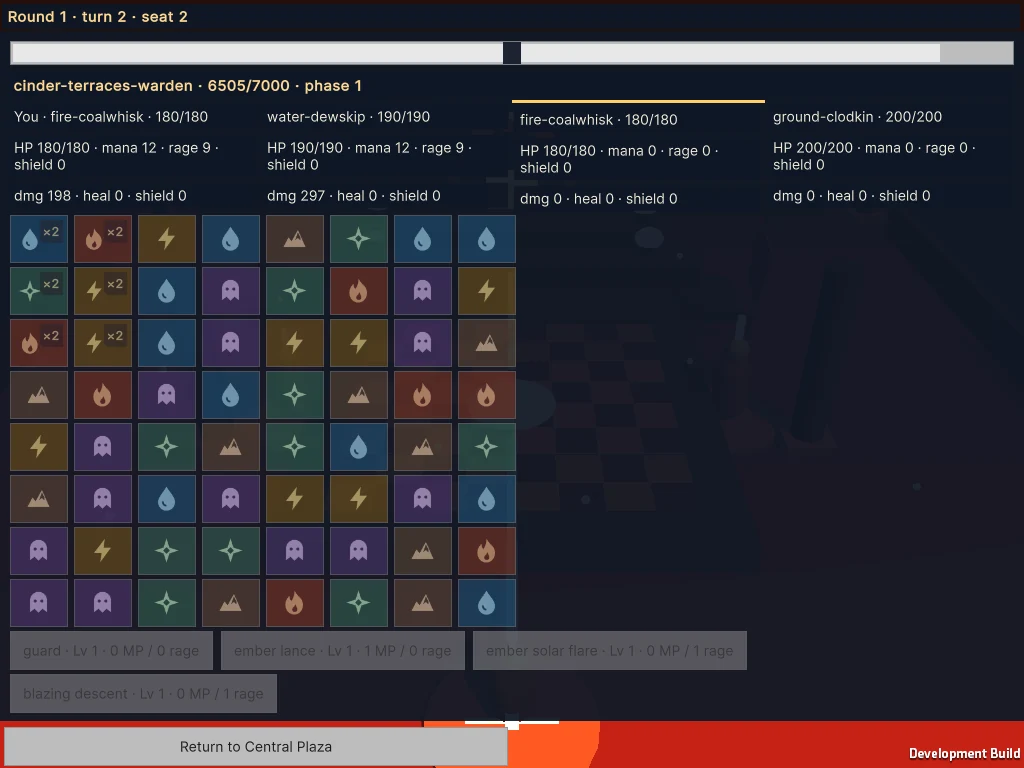
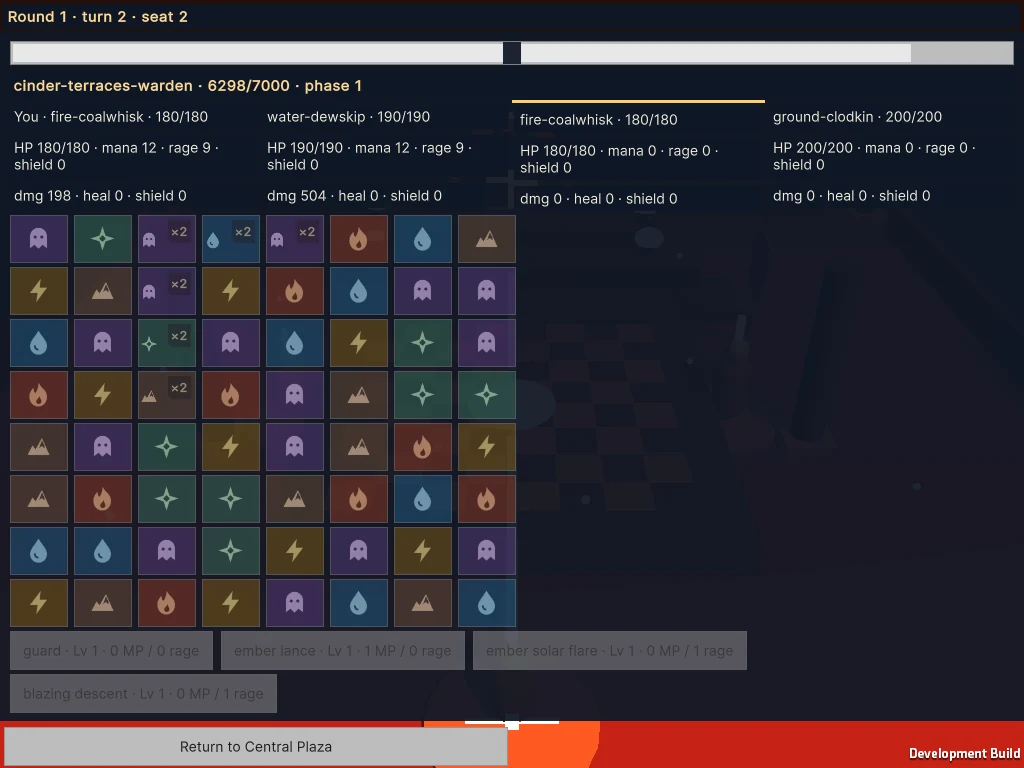
Update visual evidence for the compact multiplier fix and new opening render

diff --git a/specs/acceptance/wave-d4-production-acceptance.md b/specs/acceptance/wave-d4-production-acceptance.md
@@ -10,15 +10,15 @@ The canonical backlog is [development-plan.json](../../config/development-plan.j
 | Admin | `artifacts/wave-d4-session/admin-skill-publication.json` |
 | Balance / Performance | `artifacts/wave-d4-measures/{balance-summary.json,performance-summary.json}` |
 | Character | `artifacts/wave-d4-art/icarus-H1-R3/gates/H1/` |
-| Media / Local stage receipt | `artifacts/wave-d4-media/{original-score-r1,opening-animatic-r1,private-art-stage-receipt-r1.json}` |
+| Media / Local stage receipt | `artifacts/wave-d4-media/{original-score-r1,opening-animatic-r2,private-art-stage-receipt-r2.json}` |
 | Gemini workflow | [Production inputs and prompt handoffs](../media/gemini-production.md) |
 | Gallery | [Guest and equipment](../../assets/review/wave-d4/baseline/), [combat](../../assets/review/wave-d4/combat/), [six maps](../../assets/review/wave-d4/world/) |
 
 ![Fire board before the glyph update](../../assets/review/wave-d4/combat/fire-board-after-reconnect-1024x768.webp)
 
-![Element silhouettes on the Linux player after reconnect, revision e19170e5](../../assets/review/wave-d4/combat/fire-board-element-glyphs-1024x768.webp)
+![Element silhouettes on the Linux player after reconnect, revision d032a3b9](../../assets/review/wave-d4/combat/fire-board-element-glyphs-1024x768.webp)
 
-Both combat frames use the same 1024×768 reconnect scenario with different match seeds. The newer capture shows six shapes and visible ×2 badges. A separate 800×500 test on this revision exposed an 11-pixel collision for ×64.
+Both combat frames use the same 1024×768 reconnect scenario with different match seeds. The newer capture shows six shapes and visible ×2 badges. An earlier 800×500 test exposed an 11-pixel collision for ×64. After adjusting multiplied glyphs, the same assertion passed on 85c85729. Direct Editor tests returned 79 EditMode and 36 PlayMode passes, with two explicit service skips.
 
 ![Dawn Prism lighting baseline](../../assets/review/wave-d4/world/dawn-prism-sanctum-before-720p.webp)
 
@@ -105,8 +105,8 @@ Related tasks VL-179, VL-210.
 | E04 | Pet collection and detail presentation improved. | NOT_RUN | — | Collect dedicated evidence for this condition. |
 | E05 | Equipment and Skill Training visual quality improved. | NOT_RUN | — | Collect dedicated evidence for this condition. |
 | E06 | Campaign and lobby presentation improved. | NOT_RUN | — | Collect dedicated evidence for this condition. |
-| E07 | Combat board readability and visual quality improved. | IN_PROGRESS | e19170e5 · ElementTiles | Six shape glyphs and corner multiplier badges implemented. Verify a rendered build. |
-| E08 | Six elemental tiles are visually distinguishable. | PASS | e19170e5 · rendered Linux comparison | Flame, droplet, bolt, ghost, mountain and star silhouettes are visible in the retained reconnect frame. |
+| E07 | Combat board readability and visual quality improved. | IN_PROGRESS | e19170e5 · ElementTiles | Six shapes separate from corner multiplier badges in the Linux capture. Disabled-seat contrast, use of screen width and scroll-dependent actions need review. |
+| E08 | Six elemental tiles are visually distinguishable. | PASS | d032a3b9 · rendered Linux comparison | Flame, droplet, bolt, ghost, mountain and star silhouettes are visible in the retained reconnect frame. |
 | E09 | Active turn and resource state remain readable. | IN_PROGRESS | 663de837 · Gallery | Baseline 1024×768 captures. Still need complete screens and matched after views. |
 | E10 | Cascades and multiplier effects are visually satisfying. | NOT_RUN | — | Collect dedicated evidence for this condition. |
 | E11 | Skill, damage, healing and shield feedback works. | NOT_RUN | — | Collect dedicated evidence for this condition. |
@@ -164,7 +164,7 @@ Related tasks VL-184, VL-187.
 | --- | --- | --- | --- | --- |
 | H01 | Actual Gemini session capability inspected. | PASS | 3d23e0be · Gemini workflow | Authenticated tab exposed Create image, video and music. Tideglass brief submitted; output retrieval is unverified. |
 | H02 | Authorized generation workflow established. | PASS | 3d23e0be · Gemini workflow | Authenticated tab exposed Create image, video and music. Tideglass brief submitted; output retrieval is unverified. |
-| H03 | Opening cinematic candidate produced. | IN_PROGRESS | d2a911c7 · Media | Local still-frame opening animatic with original score; full cinematic and review remain open. |
+| H03 | Opening cinematic candidate produced. | IN_PROGRESS | 8df1f478 · Media | 25.6 s, 720p, 30 fps local animatic. Final title remains legible against the dimmed Dawn shot. Rig animation, final cinematic and rights review remain open. |
 | H04 | Icarus introduction candidate produced where references are authorized. | NOT_RUN | — | Collect dedicated evidence for this condition. |
 | H05 | Icarus skill showcase candidate produced. | NOT_RUN | — | Collect dedicated evidence for this condition. |
 | H06 | Fire cinematic candidate produced. | NOT_RUN | — | Collect dedicated evidence for this condition. |
@@ -249,16 +249,16 @@ Related tasks VL-178, VL-182.
 | L01 | Public-safe visual evidence directory established. | PASS | 663de837 · Gallery | 15 curated WebP baseline frames, 821278 bytes total; redacted room and guest identifiers. |
 | L02 | Narrow review-image Git policy established if needed. | PASS | 663de837 · Gallery | 15 curated WebP baseline frames, 821278 bytes total; redacted room and guest identifiers. |
 | L03 | Acceptance Markdown renders relative image links. | PASS | 663de837 · Gallery | 15 curated WebP baseline frames, 821278 bytes total; redacted room and guest identifiers. |
-| L04 | Production originals kept outside Git. | PASS | d2a911c7 · Media | Local editable originals and masters retained privately. |
-| L05 | Authorized source images delivered to private cloud. | NOT_RUN | Local stage receipt | 9 files staged, 31481102 bytes. No verified private cloud upload or retrieval. |
-| L06 | Authorized VRM/GLB/FBX/Blender assets delivered. | NOT_RUN | Local stage receipt | 9 files staged, 31481102 bytes. No verified private cloud upload or retrieval. |
-| L07 | Authorized cinematic and music files delivered. | NOT_RUN | Local stage receipt | 9 files staged, 31481102 bytes. No verified private cloud upload or retrieval. |
-| L08 | Authorized build and test packages delivered. | NOT_RUN | Local stage receipt | 9 files staged, 31481102 bytes. No verified private cloud upload or retrieval. |
+| L04 | Production originals kept outside Git. | PASS | 8df1f478 · Media | Local editable originals and masters retained privately. |
+| L05 | Authorized source images delivered to private cloud. | NOT_RUN | Local stage receipt | 9 files staged, 31259568 bytes. No verified private cloud upload or retrieval. |
+| L06 | Authorized VRM/GLB/FBX/Blender assets delivered. | NOT_RUN | Local stage receipt | 9 files staged, 31259568 bytes. No verified private cloud upload or retrieval. |
+| L07 | Authorized cinematic and music files delivered. | NOT_RUN | Local stage receipt | 9 files staged, 31259568 bytes. No verified private cloud upload or retrieval. |
+| L08 | Authorized build and test packages delivered. | NOT_RUN | Local stage receipt | 9 files staged, 31259568 bytes. No verified private cloud upload or retrieval. |
 | L09 | Versioned manifests maintained. | NOT_RUN | — | Collect dedicated evidence for this condition. |
-| L10 | Uploaded object existence verified. | NOT_RUN | Local stage receipt | 9 files staged, 31481102 bytes. No verified private cloud upload or retrieval. |
-| L11 | Retrieved asset SHA-256 verified. | NOT_RUN | Local stage receipt | 9 files staged, 31481102 bytes. No verified private cloud upload or retrieval. |
-| L12 | Private access configuration verified. | NOT_RUN | Local stage receipt | 9 files staged, 31481102 bytes. No verified private cloud upload or retrieval. |
-| L13 | Local originals preserved. | PASS | d2a911c7 · Media | Local editable originals and masters retained privately. |
+| L10 | Uploaded object existence verified. | NOT_RUN | Local stage receipt | 9 files staged, 31259568 bytes. No verified private cloud upload or retrieval. |
+| L11 | Retrieved asset SHA-256 verified. | NOT_RUN | Local stage receipt | 9 files staged, 31259568 bytes. No verified private cloud upload or retrieval. |
+| L12 | Private access configuration verified. | NOT_RUN | Local stage receipt | 9 files staged, 31259568 bytes. No verified private cloud upload or retrieval. |
+| L13 | Local originals preserved. | PASS | 8df1f478 · Media | Local editable originals and masters retained privately. |
 | L14 | No credentials, signed URLs or restricted evidence committed. | NOT_RUN | — | Collect dedicated evidence for this condition. |
 
 ## Final product review
@@ -270,7 +270,7 @@ Related tasks VL-199, VL-212, VL-214.
 | M01 | Integrated executable available for owner review. | PASS | 68584413 · Player | One Linux guest, three socket clients, Fire victory v29, four receipts and Water admission with Lv2 Core. Restart preserved v3 and all 64 tiles. |
 | M02 | Actual gameplay screenshot gallery available. | PASS | 663de837 · Gallery | 15 curated WebP baseline frames, 821278 bytes total; redacted room and guest identifiers. |
 | M03 | Character review package available. | OWNER_REVIEW_REQUIRED | 89db72d3 · Character | H1 R3 is ready for owner face and hair review. |
-| M04 | Cinematic and music review references available. | PASS | d2a911c7 · Media | Local opening MP4 and eight audio auditions retained. |
+| M04 | Cinematic and music review references available. | PASS | 8df1f478 · Media | Local opening MP4 and eight audio auditions retained. |
 | M05 | Performance comparison available. | NOT_RUN | — | Collect dedicated evidence for this condition. |
 | M06 | Security verification summary available. | NOT_RUN | — | Collect dedicated evidence for this condition. |
 | M07 | Remaining visual and gameplay defects prioritized. | PASS | 663de837 · Gallery | Tile labels collided, board used half the window, actions required scrolling. Dawn highlights clip. |
